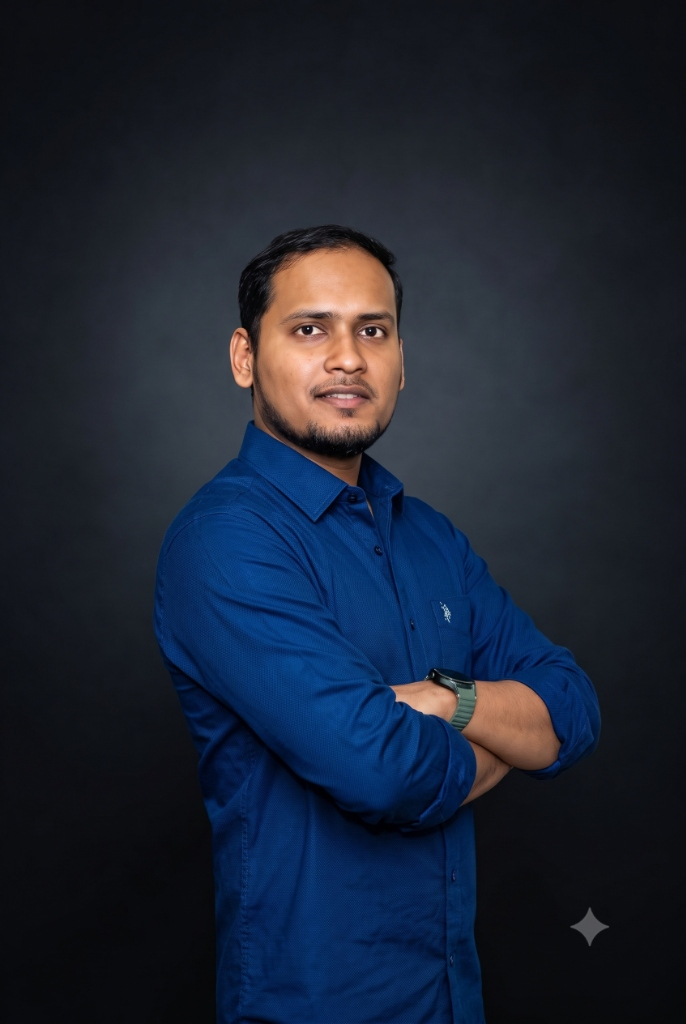
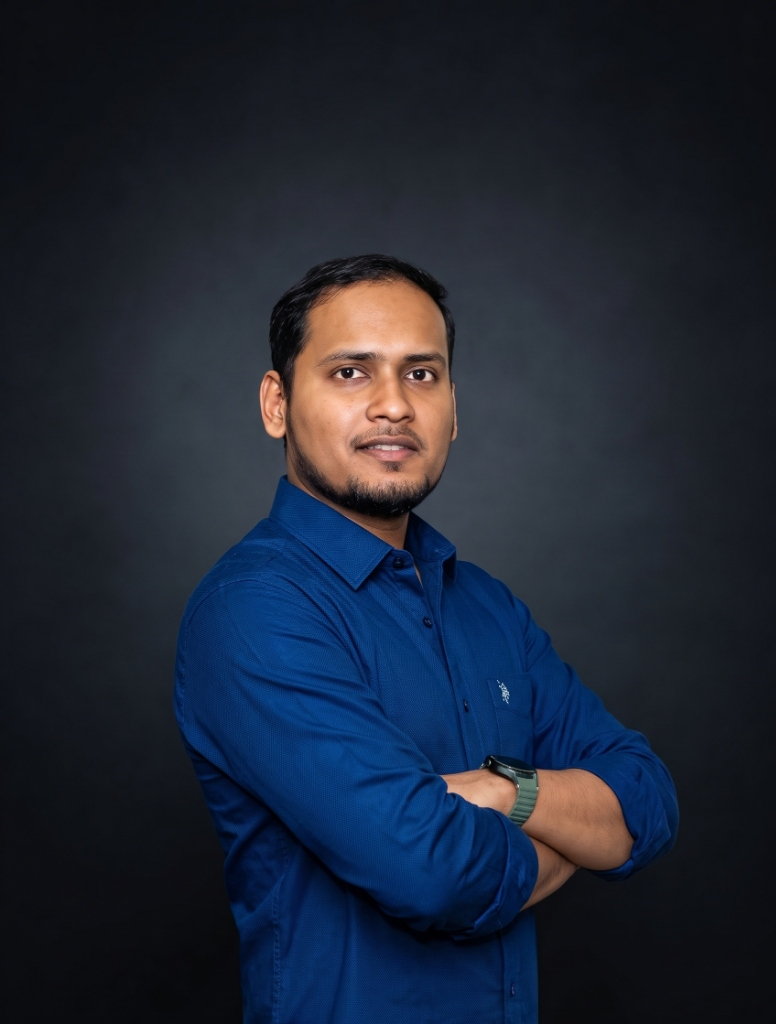
Update hero portrait framing, contact card button height, and FinFET card copy

Changed region(s): [[0.2143, 0.2188, 0.8878, 1.0], [0.8265, 0.875, 0.8878, 0.9375]]

diff --git a/src/components/Contact.tsx b/src/components/Contact.tsx
@@ -147,18 +147,18 @@ export const Contact: React.FC = () => {
                 Ready to discuss an opportunity?
               </h3>
               <p className="text-gray-600 text-sm sm:text-base leading-relaxed mb-8">
-                Whether you have a technical inquiry or a potential project, feel free to reach out via email or connect professionally on LinkedIn.
+                Whether you have a technical inquiry or a potential project, feel free to reach out and connect
               </p>
             </div>
 
             {/* CTA Buttons */}
-            <div className="flex flex-col gap-4">
+            <div className="flex flex-col gap-5">
               {/* Primary Button (Blue) */}
               <a
                 href="mailto:pine.avinash@gmail.com?subject=Portfolio%20Inquiry&body=Hello%20Avinash,%0A%0AI%20came%20across%20your%20portfolio..."
-                className="w-full inline-flex items-center justify-center gap-3 px-8 py-5 sm:py-6 text-lg sm:text-xl font-bold text-white bg-[#2563EB] rounded-2xl hover:bg-[#1d4ed8] hover:scale-[1.02] active:scale-[0.98] transition-all duration-200 shadow-md hover:shadow-lg focus-visible:outline-none focus-visible:ring-2 focus-visible:ring-[#2563EB] cursor-pointer"
+                className="w-full inline-flex items-center justify-center gap-3 px-6 min-h-[76px] sm:min-h-[84px] text-base sm:text-lg font-bold text-white bg-[#2563EB] rounded-2xl hover:bg-[#1d4ed8] hover:scale-[1.02] active:scale-[0.98] transition-all duration-200 shadow-sm hover:shadow-md focus-visible:outline-none focus-visible:ring-2 focus-visible:ring-[#2563EB] cursor-pointer"
               >
-                <Mail className="w-6 h-6" />
+                <Mail className="w-5 h-5" />
                 <span>Email Me</span>
               </a>
 
@@ -167,13 +167,13 @@ export const Contact: React.FC = () => {
                 href={PERSONAL_INFO.linkedin}
                 target="_blank"
                 rel="noopener noreferrer"
-                className="w-full inline-flex items-center justify-center gap-3 px-8 py-5 sm:py-6 text-lg sm:text-xl font-bold text-[#2563EB] bg-white border-2 border-[#2563EB] rounded-2xl hover:bg-blue-50 hover:scale-[1.02] active:scale-[0.98] transition-all duration-200 focus-visible:outline-none focus-visible:ring-2 focus-visible:ring-[#2563EB] cursor-pointer"
+                className="w-full inline-flex items-center justify-center gap-3 px-6 min-h-[76px] sm:min-h-[84px] text-base sm:text-lg font-bold text-[#2563EB] bg-white border-2 border-[#2563EB] rounded-2xl hover:bg-blue-50 hover:scale-[1.02] active:scale-[0.98] transition-all duration-200 focus-visible:outline-none focus-visible:ring-2 focus-visible:ring-[#2563EB] cursor-pointer"
               >
-                <svg className="w-6 h-6 fill-[#2563EB]" viewBox="0 0 24 24">
+                <svg className="w-5 h-5 fill-[#2563EB]" viewBox="0 0 24 24">
                   <path d="M19 3a2 2 0 0 1 2 2v14a2 2 0 0 1-2 2H5a2 2 0 0 1-2-2V5a2 2 0 0 1 2-2h14m-.5 15.5v-5.3a3.26 3.26 0 0 0-3.26-3.26c-.85 0-1.84.52-2.28 1.3v-1.11h-2.79v8.37h2.79v-4.93c0-1.3.36-2.54 1.96-2.54 1.57 0 1.59 1.47 1.59 2.62v4.85h2.79M6.88 8.56a1.68 1.68 0 0 0 1.68-1.68c0-.93-.75-1.69-1.68-1.69a1.69 1.69 0 0 0-1.69 1.69c0 .93.76 1.68 1.69 1.68m1.39 9.94v-8.37H5.5v8.37h2.77z" />
                 </svg>
                 <span>LinkedIn</span>
-                <ArrowUpRight className="w-5 h-5 text-[#2563EB]" />
+                <ArrowUpRight className="w-4 h-4 text-[#2563EB]" />
               </a>
             </div>
           </motion.div>

diff --git a/src/components/Hero.tsx b/src/components/Hero.tsx
@@ -10,31 +10,24 @@ interface HeroProps {
 export const Hero: React.FC<HeroProps> = ({ onOpenContact }) => {
   return (
     <>
-      {/* Main Light Hero Section */}
-      <section id="hero" className="relative pt-24 pb-10 md:pt-40 md:pb-28 overflow-hidden bg-gradient-to-br from-white via-slate-50 to-[#F0F4F8] text-slate-900">
+      {/* Main Light Hero Section (Vertically Lengthened & Centered) */}
+      <section id="hero" className="relative min-h-[96vh] lg:min-h-[980px] flex flex-col justify-center pt-36 pb-28 md:pt-52 md:pb-44 overflow-hidden bg-gradient-to-br from-white via-slate-50 to-[#F0F4F8] text-slate-900">
         {/* Background Silicon Microchip Grid Pattern */}
         <div className="absolute inset-0 silicon-grid-pattern opacity-60 pointer-events-none" />
 
         {/* ========== DESKTOP: Full-Height Left Portrait (hidden on mobile) ========== */}
-        <div className="absolute top-16 md:top-20 bottom-0 left-0 w-1/2 max-w-[540px] pointer-events-none z-0 overflow-hidden hidden lg:block">
+        <div className="absolute top-8 md:top-12 bottom-0 left-0 w-1/2 max-w-[750px] pointer-events-none z-0 overflow-hidden hidden lg:block">
           <img
             src="/avinash_maurya.jpg"
             alt="Avinash Maurya"
-            className="w-full h-full object-cover object-[center_35%] scale-x-[-1] opacity-100"
+            className="w-full h-full object-cover object-[center_10%] scale-x-[-1] opacity-100"
           />
-          {/* Soft Right Edge Blend covering Gemini watermark star */}
-          <div className="absolute inset-0 bg-gradient-to-r from-transparent 25% via-[#F0F4F8]/90 60% to-[#F0F4F8]" />
+          {/* Soft Right Edge Blend for Smooth Section Transition */}
+          <div className="absolute inset-0 bg-gradient-to-r from-transparent via-transparent to-[#F0F4F8]" />
         </div>
 
-        {/* Decorative Alignment Overlay Marks */}
-        <div className="absolute top-24 left-8 font-mono text-[10px] text-slate-400 pointer-events-none hidden md:block">
-          [GDSII DIE ORIGIN X:000.00 Y:000.00]
-        </div>
-        <div className="absolute top-24 right-8 font-mono text-[10px] text-slate-400 pointer-events-none hidden md:block">
-          [EUV MASK BOUNDARY: CLEAN]
-        </div>
 
-        <div className="max-w-[1280px] mx-auto px-6 md:px-10 relative z-10">
+        <div className="max-w-[1280px] mx-auto px-6 md:px-10 relative z-10 w-full">
 
           {/* ========== MOBILE: Centered Portrait Image (visible only on mobile) ========== */}
           <motion.div
@@ -59,7 +52,7 @@ export const Hero: React.FC<HeroProps> = ({ onOpenContact }) => {
             {/* Spacer for Left Image Alignment on Desktop */}
             <div className="hidden lg:block lg:col-span-5 pointer-events-none h-full" />
 
-            {/* Right Hero Copy Column */}
+            {/* Right Hero Copy Column (Vertically Centered) */}
             <motion.div
               initial={{ opacity: 0, x: 0, y: 16 }}
               animate={{ opacity: 1, x: 0, y: 0 }}

diff --git a/src/data/profileData.ts b/src/data/profileData.ts
@@ -179,7 +179,7 @@ export const TECHNICAL_EXPERTISE: SkillCategory[] = [
     id: "submicron-tradeoffs",
     title: "Deep Sub-Micron Physics & Trade-offs",
     iconName: "Layers",
-    description: "Architectural exploration and silicon physical trade-offs in sub-7nm FinFET and EUV process technologies.",
+    description: "Architectural exploration and silicon physical trade-offs in FinFET technologies.",
     skills: [
       "Electromigration (EM) & IR Drop Mitigation",
       "Pin Accessibility & P&R Routability Optimization",
